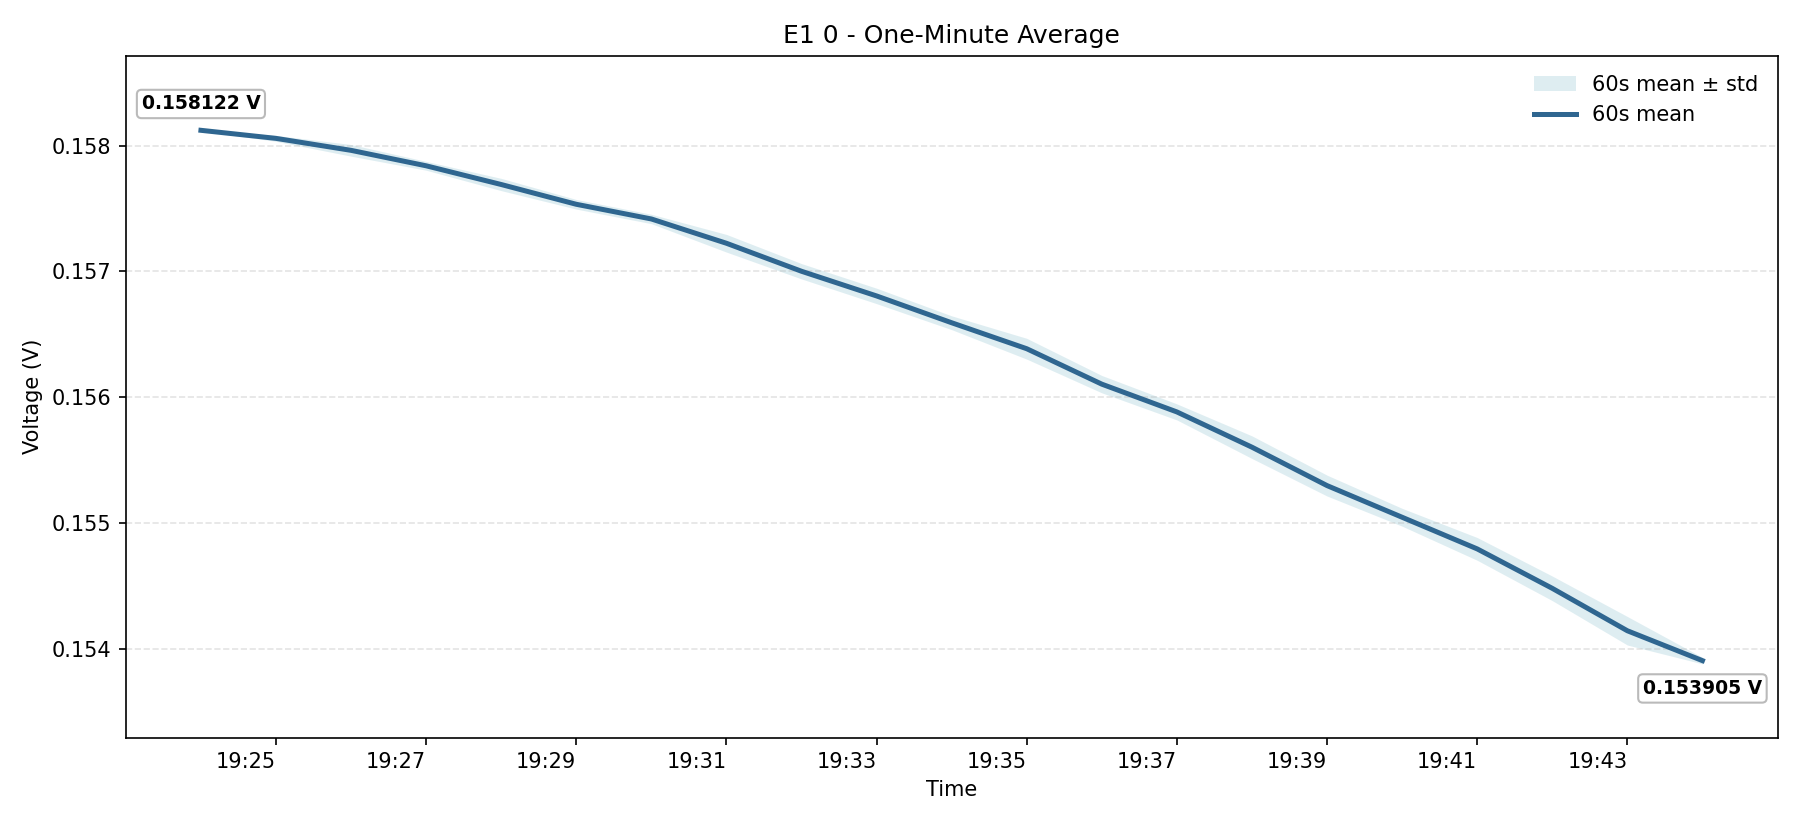
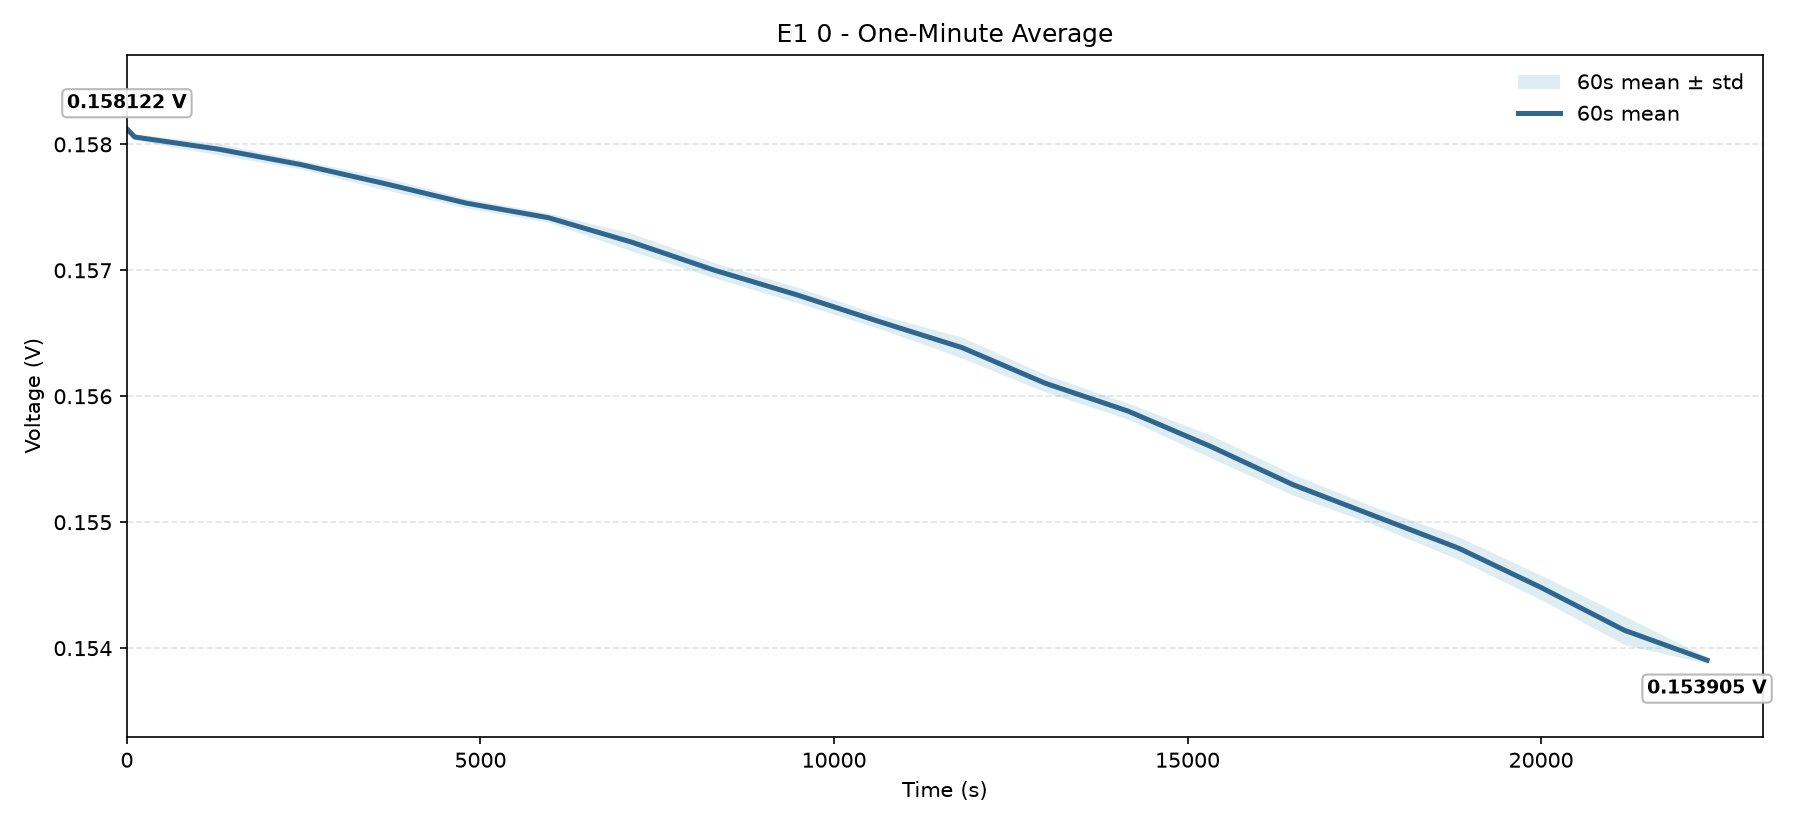
Plot voltage charts by sample index on x-axis

diff --git a/plot_voltage.py b/plot_voltage.py
@@ -6,7 +6,6 @@ from pathlib import Path
 import matplotlib
 
 matplotlib.use("Agg")
-import matplotlib.dates as mdates
 import matplotlib.pyplot as plt
 import matplotlib.ticker as mticker
 import pandas as pd
@@ -41,9 +40,10 @@ def load_input(path: Path) -> pd.DataFrame:
     return df.dropna()
 
 
-def format_time_axis(ax):
-    ax.xaxis.set_major_formatter(mdates.DateFormatter("%H:%M"))
-    ax.xaxis.set_major_locator(mdates.MinuteLocator(interval=2))
+def format_index_axis(ax, n):
+    ax.xaxis.set_major_locator(mticker.MaxNLocator(nbins=5, integer=True))
+    ticks = [t for t in ax.get_xticks() if 0 <= t <= n]
+    ax.set_xticks(ticks)
 
 
 def annotate_point(ax, x, y, text, y_offset):
@@ -68,28 +68,30 @@ def add_padding(ax, ratio=0.08):
 def draw_trend_chart(df: pd.DataFrame, output: Path, label: str):
     series = df.set_index(TIME_COL)[VOLT_COL]
     minute_mean = series.resample("60s").mean().dropna()
+    x = range(len(series))
+    mean_x = [series.index.searchsorted(ts, side="right") for ts in minute_mean.index]
 
     fig, ax = plt.subplots(figsize=(12, 5.5))
-    ax.plot(series.index, series.values, color="#4c9fb5", linewidth=0.6, alpha=0.75, label="Raw samples")
+    ax.plot(x, series.values, color="#4c9fb5", linewidth=0.6, alpha=0.75, label="Raw samples")
     ax.plot(
-        minute_mean.index,
+        mean_x,
         minute_mean.values,
         color="#c14953",
         linewidth=2.2,
         label="60s mean",
     )
 
-    annotate_point(ax, series.index[0], series.iloc[0], f"start  {series.iloc[0]:.6f} V", 10)
-    annotate_point(ax, series.index[-1], series.iloc[-1], f"end  {series.iloc[-1]:.6f} V", -16)
+    annotate_point(ax, 0, series.iloc[0], f"start  {series.iloc[0]:.6f} V", 10)
+    annotate_point(ax, len(series) - 1, series.iloc[-1], f"end  {series.iloc[-1]:.6f} V", -16)
 
-    ax.set_xlabel("Time")
+    ax.set_xlabel("Time (s)")
     ax.set_ylabel("Voltage (V)")
     ax.set_title(f"{label} - Voltage Trend")
     ax.grid(axis="y", linestyle="--", alpha=0.35)
     ax.legend(frameon=False)
-    format_time_axis(ax)
+    format_index_axis(ax, len(series))
+    ax.set_xlim(0, len(series) * 1.02)
     add_padding(ax)
-    fig.autofmt_xdate(rotation=0)
     fig.tight_layout()
     fig.savefig(output, dpi=150)
     plt.close(fig)
@@ -99,10 +101,11 @@ def draw_deviation_chart(df: pd.DataFrame, output: Path, label: str):
     series = df.set_index(TIME_COL)[VOLT_COL]
     base = series.iloc[0]
     dev_mv = (series - base) * 1000
+    x = range(len(dev_mv))
 
     fig, ax = plt.subplots(figsize=(12, 5.5))
     ax.fill_between(
-        dev_mv.index,
+        x,
         dev_mv.values,
         0,
         where=dev_mv.values <= 0,
@@ -110,20 +113,20 @@ def draw_deviation_chart(df: pd.DataFrame, output: Path, label: str):
         alpha=0.22,
         linewidth=0,
     )
-    ax.plot(dev_mv.index, dev_mv.values, color="#c14953", linewidth=1.1, label="Deviation")
+    ax.plot(x, dev_mv.values, color="#c14953", linewidth=1.1, label="Deviation")
     ax.axhline(0, color="gray", linewidth=1)
 
-    annotate_point(ax, dev_mv.index[0], dev_mv.iloc[0], "0.000 mV", 10)
-    annotate_point(ax, dev_mv.index[-1], dev_mv.iloc[-1], f"{dev_mv.iloc[-1]:.3f} mV", -16)
+    annotate_point(ax, 0, dev_mv.iloc[0], "0.000 mV", 10)
+    annotate_point(ax, len(dev_mv) - 1, dev_mv.iloc[-1], f"{dev_mv.iloc[-1]:.3f} mV", -16)
 
-    ax.set_xlabel("Time")
+    ax.set_xlabel("Time (s)")
     ax.set_ylabel("Deviation from start (mV)")
     ax.set_title(f"{label} - Voltage Change from Start")
     ax.grid(axis="y", linestyle="--", alpha=0.35)
     ax.legend(frameon=False)
-    format_time_axis(ax)
+    format_index_axis(ax, len(dev_mv))
+    ax.set_xlim(0, len(dev_mv) * 1.02)
     add_padding(ax)
-    fig.autofmt_xdate(rotation=0)
     fig.tight_layout()
     fig.savefig(output, dpi=150)
     plt.close(fig)
@@ -133,10 +136,11 @@ def draw_minute_chart(df: pd.DataFrame, output: Path, label: str):
     series = df.set_index(TIME_COL)[VOLT_COL]
     mean = series.resample("60s").mean().dropna()
     std = series.resample("60s").std().dropna()
+    mean_x = [series.index.searchsorted(ts, side="right") for ts in mean.index]
 
     fig, ax = plt.subplots(figsize=(12, 5.5))
     ax.fill_between(
-        mean.index,
+        mean_x,
         (mean - std).values,
         (mean + std).values,
         color="#4c9fb5",
@@ -144,19 +148,19 @@ def draw_minute_chart(df: pd.DataFrame, output: Path, label: str):
         linewidth=0,
         label="60s mean ± std",
     )
-    ax.plot(mean.index, mean.values, color="#2f6690", linewidth=2.4, label="60s mean")
+    ax.plot(mean_x, mean.values, color="#2f6690", linewidth=2.4, label="60s mean")
 
-    annotate_point(ax, mean.index[0], mean.iloc[0], f"{mean.iloc[0]:.6f} V", 10)
-    annotate_point(ax, mean.index[-1], mean.iloc[-1], f"{mean.iloc[-1]:.6f} V", -16)
+    annotate_point(ax, mean_x[0], mean.iloc[0], f"{mean.iloc[0]:.6f} V", 10)
+    annotate_point(ax, mean_x[-1], mean.iloc[-1], f"{mean.iloc[-1]:.6f} V", -16)
 
-    ax.set_xlabel("Time")
+    ax.set_xlabel("Time (s)")
     ax.set_ylabel("Voltage (V)")
     ax.set_title(f"{label} - One-Minute Average")
     ax.grid(axis="y", linestyle="--", alpha=0.35)
     ax.legend(frameon=False)
-    format_time_axis(ax)
+    format_index_axis(ax, len(series))
+    ax.set_xlim(0, len(series) * 1.02)
     add_padding(ax)
-    fig.autofmt_xdate(rotation=0)
     fig.tight_layout()
     fig.savefig(output, dpi=150)
     plt.close(fig)
@@ -165,15 +169,16 @@ def draw_minute_chart(df: pd.DataFrame, output: Path, label: str):
 def draw_reference_chart(df: pd.DataFrame, output: Path, label: str):
     series = df.set_index(TIME_COL)[VOLT_COL]
     pad = (series.max() - series.min()) * 0.10
+    x = range(len(series))
 
     fig, ax = plt.subplots(figsize=(4.8, 4.0))
-    ax.plot(series.index, series.values, color="black", linewidth=0.9)
+    ax.plot(x, series.values, color="black", linewidth=0.9)
     ax.set_ylim(series.min() - pad, series.max() + pad)
     ax.yaxis.set_major_formatter(mticker.FormatStrFormatter("%.4f"))
-    ax.xaxis.set_major_formatter(mdates.DateFormatter("%H:%M"))
-    ax.xaxis.set_major_locator(mdates.MinuteLocator(interval=4))
+    format_index_axis(ax, len(series))
+    ax.set_xlim(0, len(series) * 1.02)
     ax.tick_params(labelsize=9)
-    ax.set_xlabel("Time", fontsize=9)
+    ax.set_xlabel("Time (s)", fontsize=9)
     ax.set_ylabel("Voltage (V)", fontsize=9)
     if label:
         ax.set_title(label, fontsize=10)

diff --git a/README.md b/README.md
@@ -55,6 +55,8 @@ python plot_voltage.py --input "E1 0.xlsx" "E1 1.xlsx" --label "E1 0" "E1 1"
 
 仓库内附带 `data/sample_voltage_minute.csv` 示例数据，可先跑一遍熟悉流程。
 
+横坐标按采样点数显示：每个数据点占一个位置，从 `0` 到数据总数，末尾再留一点余量。例如有 22679 个数据点时，横轴大约显示为 `0` 到 `23000`，不再是按真实时间进度。
+
 ## 在另一台电脑上运行（VSCode）
 
 1. 安装 Python 3.10 或更高版本，安装时勾选 `Add Python to PATH`。
